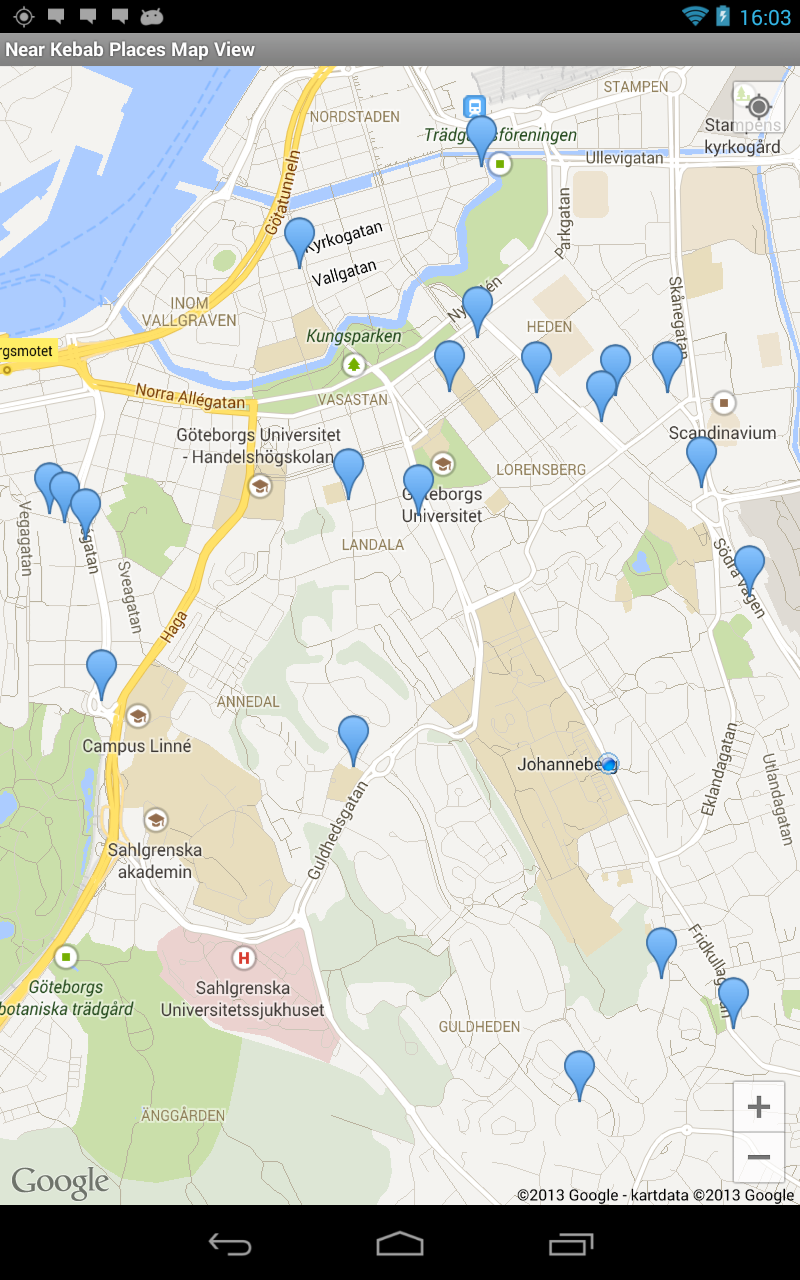
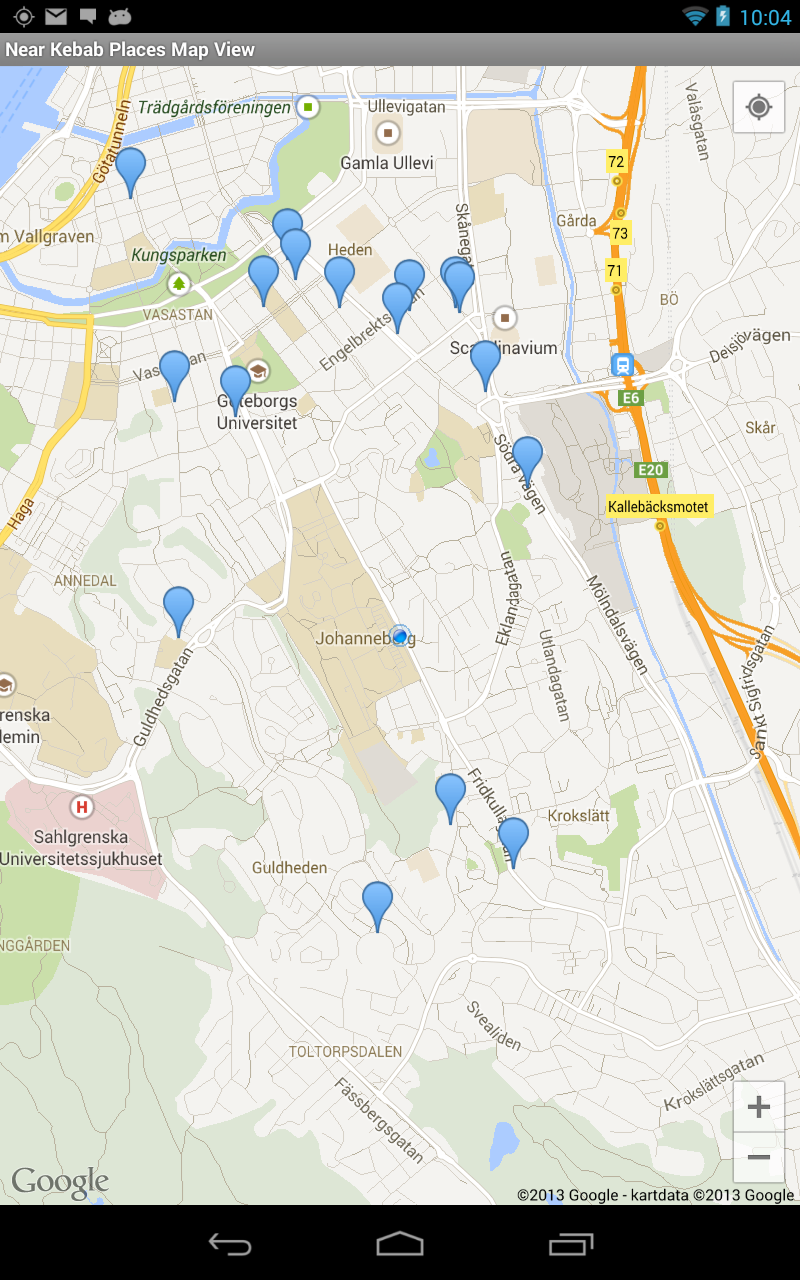
added screenshots

diff --git a/src/com/anmark/grund/PlacesMapActivityV2.java b/src/com/anmark/grund/PlacesMapActivityV2.java
@@ -25,6 +25,8 @@ import com.google.android.gms.maps.model.MarkerOptions;
 
 public class PlacesMapActivityV2 extends Activity {
 
+	
+	private static final int MAP_ZOOMLEVEL = 14;
 	private GoogleMap mMap;
 	String delimiter = "DELIMITER";
 	public static String KEY_REFERENCE = "reference"; // id of the place
@@ -65,7 +67,7 @@ public class PlacesMapActivityV2 extends Activity {
 					}
 
 					final LatLng placePos = new LatLng(p.getGeometry().location.lat,p.getGeometry().location.lng);
-					builder.include(placePos);
+					//builder.include(placePos);
 					mMap.addMarker(new MarkerOptions()
 					.position(placePos)					                          
 					// marker workaround title is place reference
@@ -134,12 +136,12 @@ public class PlacesMapActivityV2 extends Activity {
 				double longitude = myLocation.getLongitude();
 
 				// Create a LatLng object for the current location
-				LatLng latLng = new LatLng(latitude, longitude);      
+				final LatLng latLng = new LatLng(latitude, longitude);      
 
 				mMap.setOnCameraChangeListener(new OnCameraChangeListener() {
 
 					public void onCameraChange(CameraPosition arg0) {
-						mMap.animateCamera(CameraUpdateFactory.newLatLngBounds(builder.build(), 50));
+						mMap.animateCamera(CameraUpdateFactory.newLatLngZoom(latLng, MAP_ZOOMLEVEL));
 						mMap.setOnCameraChangeListener(null);
 					}
 				});

diff --git a/src/com/anmark/grund/MainActivity.java b/src/com/anmark/grund/MainActivity.java
@@ -125,24 +125,20 @@ public class MainActivity extends Activity {
 					int position, long id) {
 				// getting values from selected ListItem
 
-				
+				/*
 				DBAdapter db = new DBAdapter(getApplicationContext());
 				db.open();
 				db.deleteAllRows();
 				db.close();
 
-				 
+				 */
+				
 				// Starting new intent
-
 				// Sending place refrence id to single place activity
 				// place refrence id used to get "Place full details"
-
-					
 				String reference = ((TextView) view.findViewById(R.id.reference)).getText().toString();
 				Intent in = new Intent(getApplicationContext(),
 						SinglePlaceActivity.class);
-
-
 				in.putExtra(KEY_REFERENCE, reference);
 				startActivity(in);
 

diff --git a/src/com/anmark/grund/SplashScreenActivity.java b/src/com/anmark/grund/SplashScreenActivity.java
@@ -125,7 +125,7 @@ public class SplashScreenActivity extends Activity {
 				// If you want all types places make it as null
 				// Check list of types supported by google
 				// 
-				String types = ""; // Listing places only restaurants
+				String types = "food|restaurant"; // Listing places only restaurants
 				String keyword = "pizza";// Listing places with keyword pizza
 				// Radius in meters - increase this value if you don't find any places
 				//double radius = 1000; // 1000 meters 
